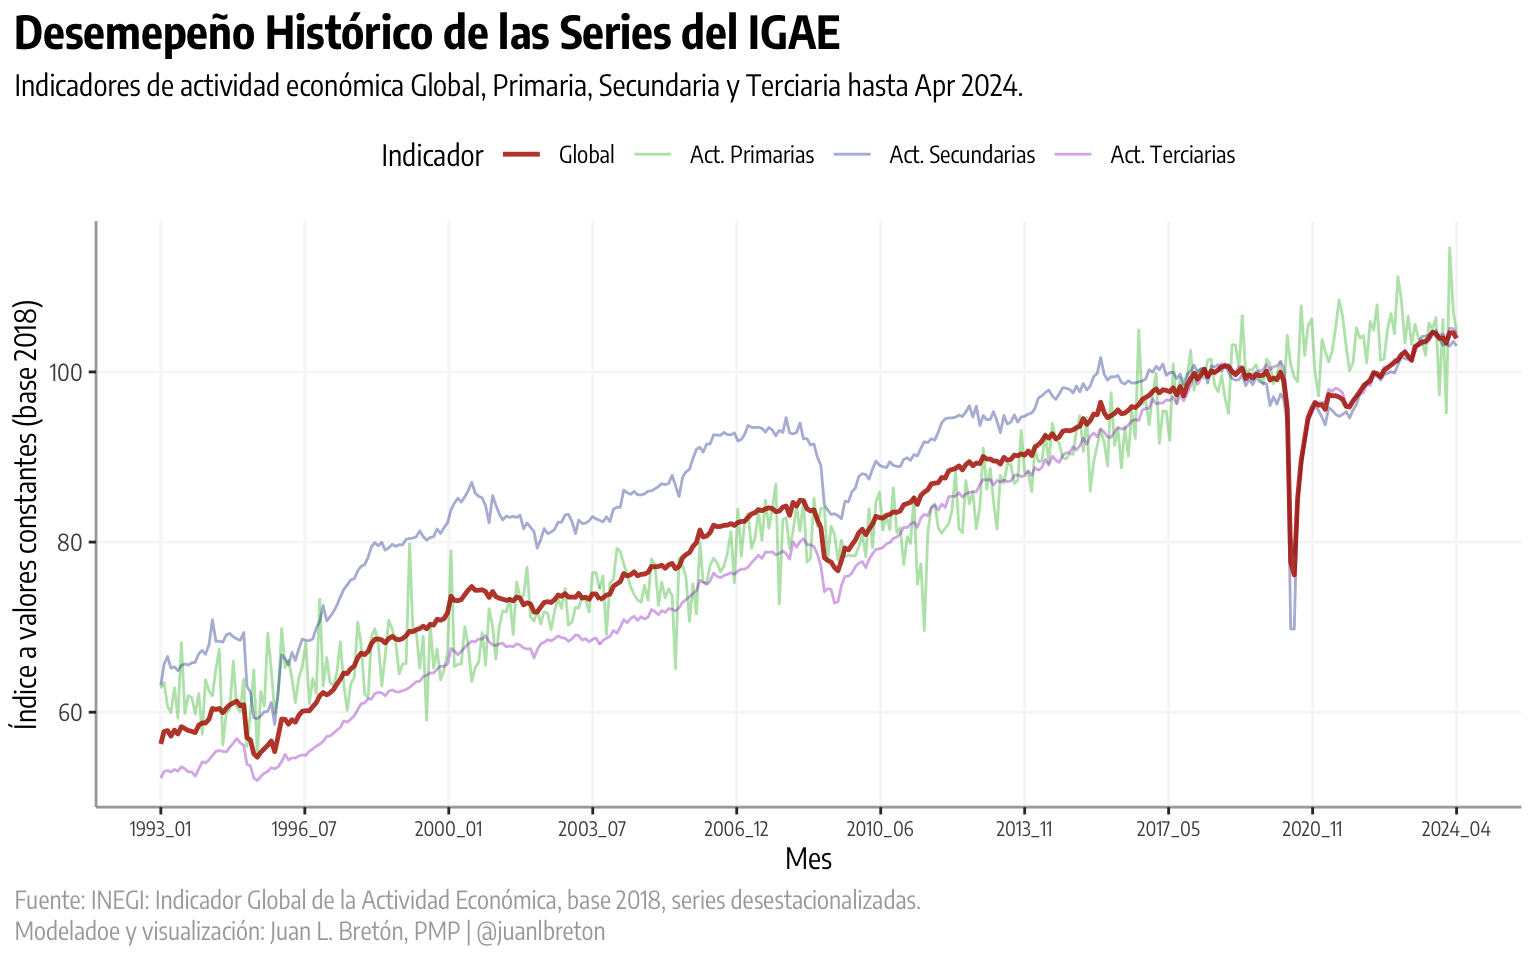
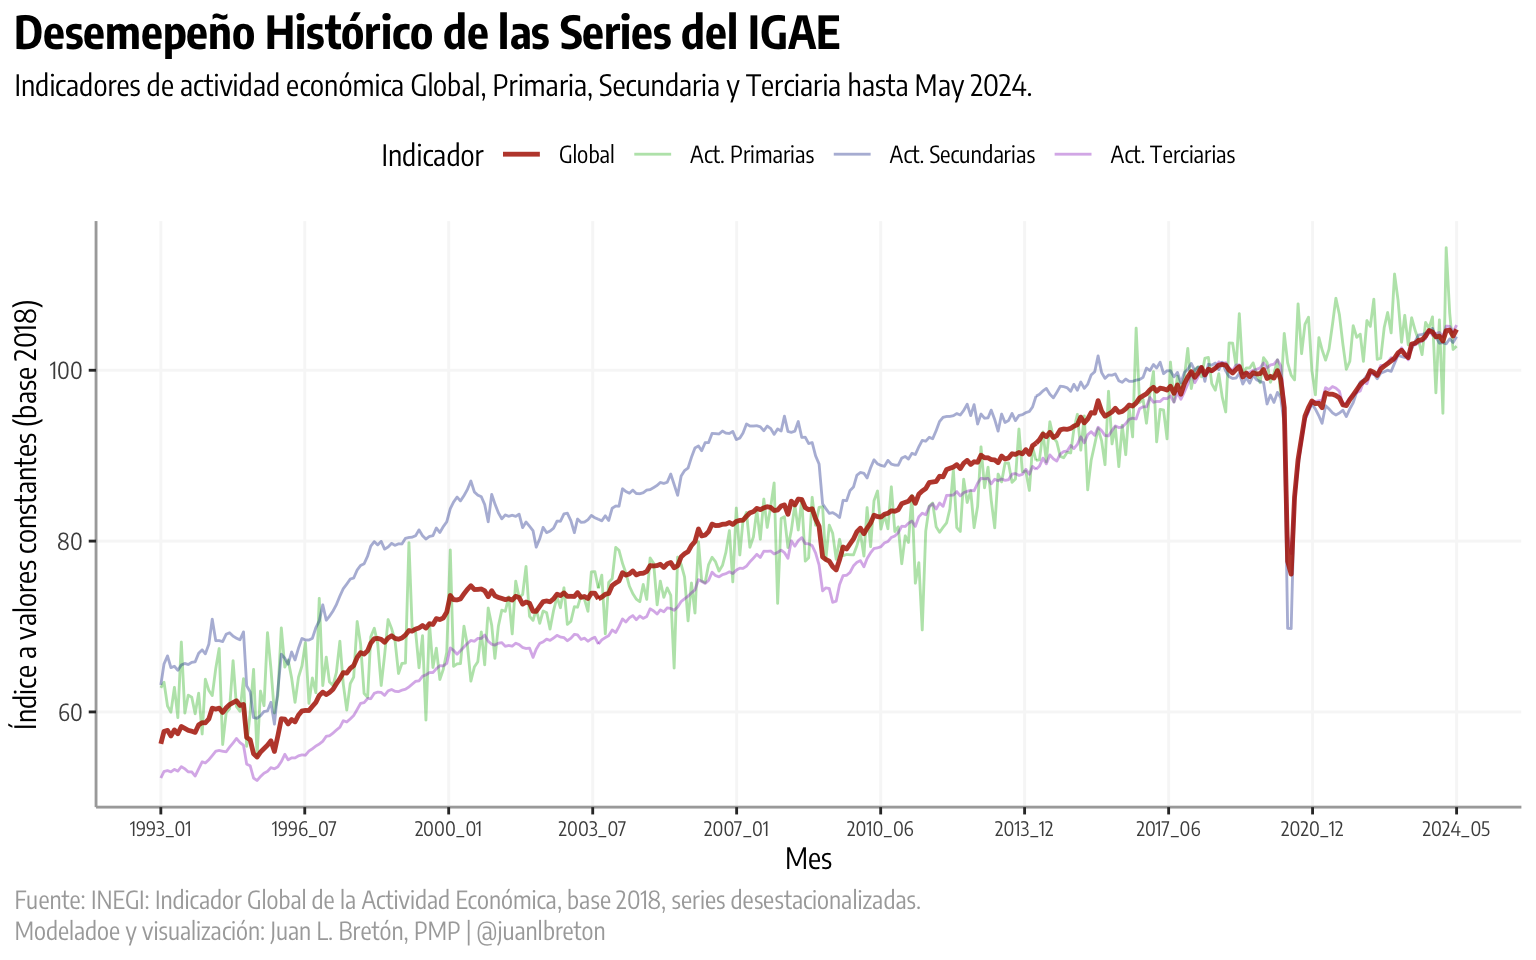
Data updated to May 24.

diff --git a/docs/igae_dd.html b/docs/igae_dd.html
@@ -153,8 +153,8 @@ grid-auto-rows: minmax(0, 1fr);">
 <div class="card bslib-card bslib-mb-spacing html-fill-item html-fill-container bslib-value-box bg-primary" data-bslib-card-init="" data-require-bs-caller="card()" data-require-bs-version="5 5" data-full-screen="false">
 <div class="card-body bslib-gap-spacing html-fill-item html-fill-container" style="margin-top:auto;margin-bottom:auto;flex:1 1 auto;">
 <div class="value-box-area html-fill-item html-fill-container">
-<p class="value-box-title">Variación respecto a April 2023</p>
-<p class="value-box-value">0.93%</p>
+<p class="value-box-title">Variación respecto a May 2023</p>
+<p class="value-box-value">1.57%</p>
 </div>
 </div>
 <script data-bslib-card-init="">bslib.Card.initializeAllCards();</script>
@@ -179,8 +179,8 @@ grid-auto-rows: minmax(0, 1fr);">
 <div class="card bslib-card bslib-mb-spacing html-fill-item html-fill-container bslib-value-box bg-primary" data-bslib-card-init="" data-require-bs-caller="card()" data-require-bs-version="5 5" data-full-screen="false">
 <div class="card-body bslib-gap-spacing html-fill-item html-fill-container" style="margin-top:auto;margin-bottom:auto;flex:1 1 auto;">
 <div class="value-box-area html-fill-item html-fill-container">
-<p class="value-box-title">Variación respecto a April 2024</p>
-<p class="value-box-value">-0.62%</p>
+<p class="value-box-title">Variación respecto a May 2024</p>
+<p class="value-box-value">0.75%</p>
 </div>
 </div>
 <script data-bslib-card-init="">bslib.Card.initializeAllCards();</script>
@@ -225,8 +225,8 @@ grid-auto-rows: minmax(0, 1fr);">
 <div class="card bslib-card bslib-mb-spacing html-fill-item html-fill-container bslib-value-box bg-primary" data-bslib-card-init="" data-require-bs-caller="card()" data-require-bs-version="5 5" data-full-screen="false">
 <div class="card-body bslib-gap-spacing html-fill-item html-fill-container" style="margin-top:auto;margin-bottom:auto;flex:1 1 auto;">
 <div class="value-box-area html-fill-item html-fill-container">
-<p class="value-box-title">Crecimiento Acumulado del Sexenio hasta Apr 2024</p>
-<p class="value-box-value">4.29%</p>
+<p class="value-box-title">Crecimiento Acumulado del Sexenio hasta May 2024</p>
+<p class="value-box-value">5.12%</p>
 </div>
 </div>
 <script data-bslib-card-init="">bslib.Card.initializeAllCards();</script>
